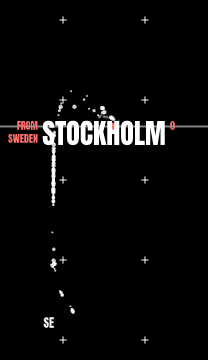
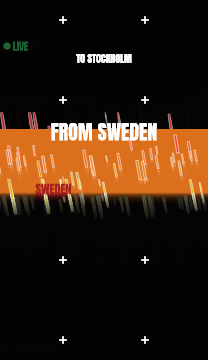
Improved glitch

diff --git a/code/nobel/rfc_675_08-architecture/js/main.js b/code/nobel/rfc_675_08-architecture/js/main.js
@@ -179,6 +179,7 @@ let playhead = {
 var allSceneImages = [];
 var glitchProb = 0.99;
 var glitchAlpha = 0.2;
+var glitchMaxIndex = 2;
 
 /// P5 functions
 
@@ -187,6 +188,14 @@ function preload() {
   for (let scene of scenes.values()) {
     scene.preload();
   }
+  allSceneImages.push(loadImage("assets/img/scenes/blob1.png"))
+  allSceneImages.push(loadImage("assets/img/scenes/blob2.png"))
+  allSceneImages.push(loadImage("assets/img/scenes/blob3.png"))
+  allSceneImages.push(loadImage("assets/img/scenes/blob4.png"))
+  allSceneImages.push(loadImage("assets/img/scenes/blob5.png"))
+  allSceneImages.push(loadImage("assets/img/scenes/world1.png"))
+  allSceneImages.push(loadImage("assets/img/scenes/world2.png"))
+  allSceneImages.push(loadImage("assets/img/scenes/world3.png"))
   allSceneImages.push(loadImage("assets/img/scenes/numbers1.png"))
   allSceneImages.push(loadImage("assets/img/scenes/numbers2.png"))
   allSceneImages.push(loadImage("assets/img/scenes/numbers3.png"))
@@ -197,11 +206,10 @@ function preload() {
   allSceneImages.push(loadImage("assets/img/scenes/ports2.png"))
   allSceneImages.push(loadImage("assets/img/scenes/ports3.png"))
   allSceneImages.push(loadImage("assets/img/scenes/ports4.png"))
-  allSceneImages.push(loadImage("assets/img/scenes/world1.png"))
-  allSceneImages.push(loadImage("assets/img/scenes/world2.png"))
   allSceneImages.push(loadImage("assets/img/scenes/drops1.png"))
   allSceneImages.push(loadImage("assets/img/scenes/drops2.png"))
   allSceneImages.push(loadImage("assets/img/scenes/drops3.png"))
+  
 } // End Preload
 
 function setup() {
@@ -254,6 +262,11 @@ function draw() {
     firstNow = now;
   }
   let dt = now - lastNow;
+
+  glitchMaxIndex += dt*0.04;
+  if(glitchMaxIndex > allSceneImages.length) {
+    glitchMaxIndex = allSceneImages.length;
+  }
 
   // Update score
   if (playhead.state == "before start") {
@@ -365,8 +378,11 @@ function draw() {
   } else if (playhead.state == "playing") {
     playhead.currentScene.draw(dt);
 
-    if (doGlitch && Math.random() > glitchProb) {
-      let img = allSceneImages[Math.floor(Math.random() * allSceneImages.length)];
+    if (doGlitch 
+      && playhead.currentSceneName != "intro"
+      && Math.random() > glitchProb
+    ) {
+      let img = allSceneImages[Math.floor(Math.random() * glitchMaxIndex)];
       drawingContext.globalAlpha = glitchAlpha;
       image(img, 0, 0);
       drawingContext.globalAlpha = 1.0;
